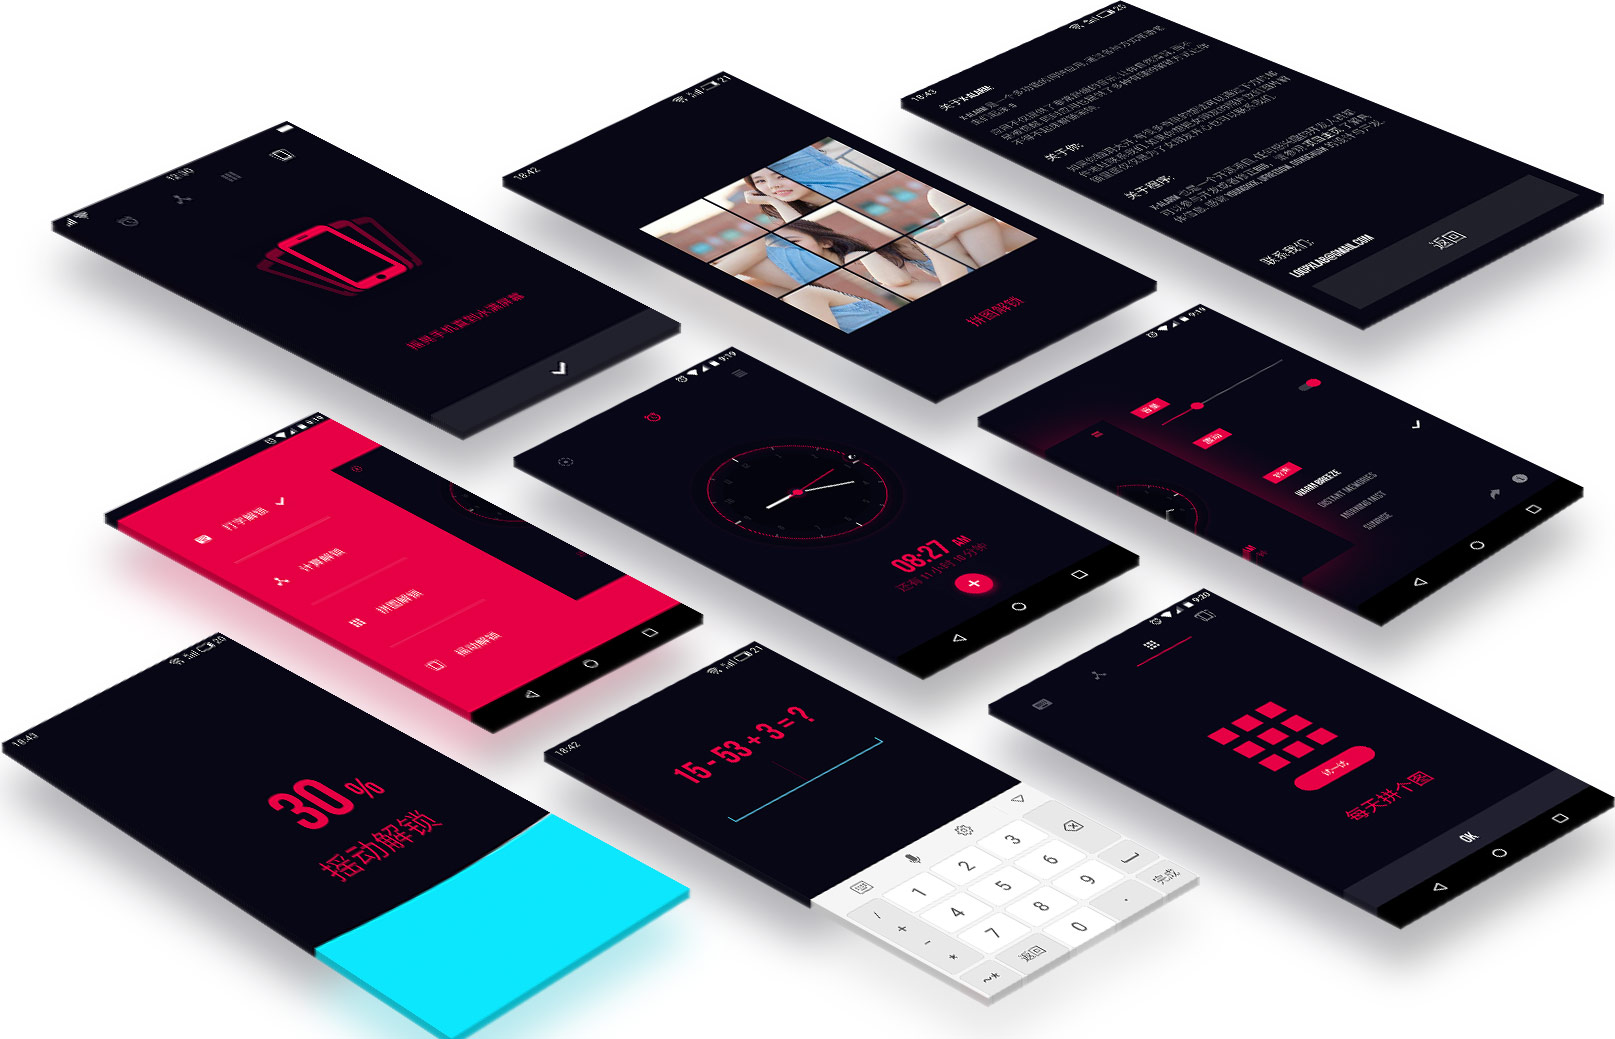
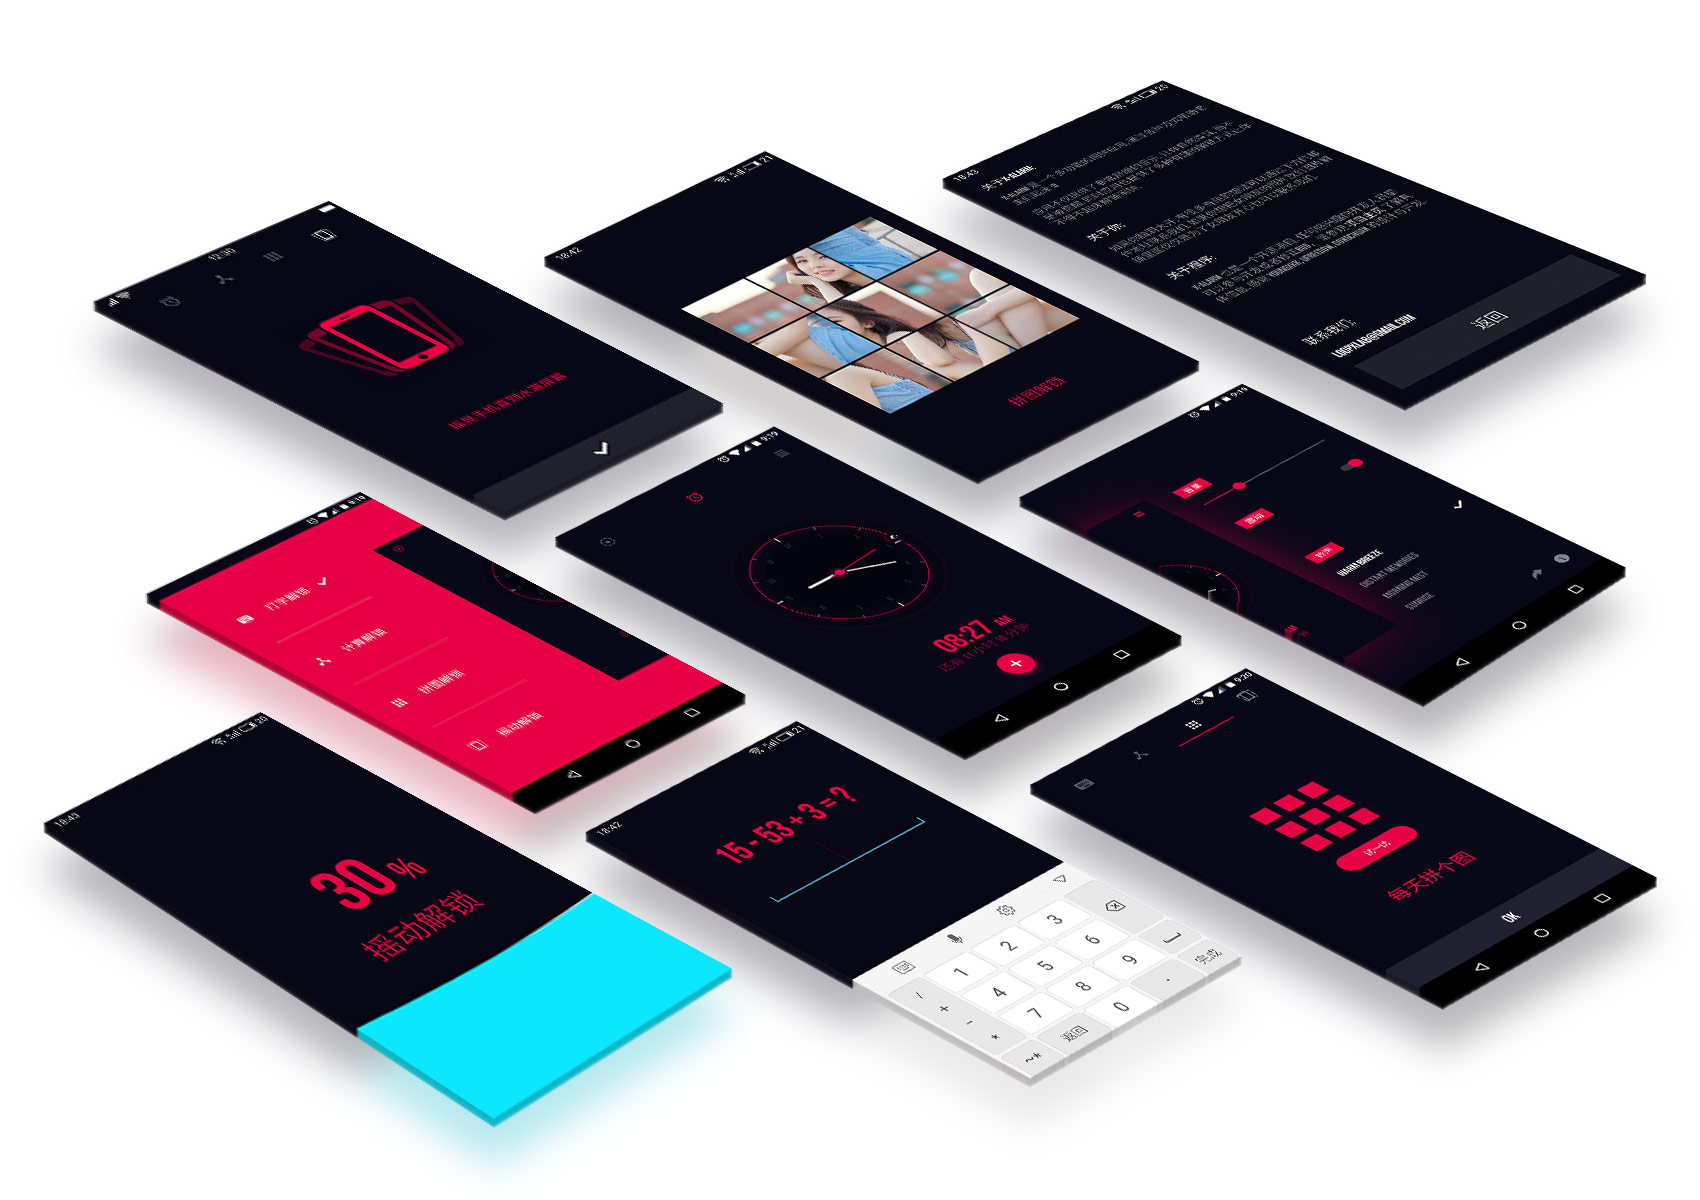
X Alarm awesome image

diff --git a/README.md b/README.md
@@ -9,8 +9,13 @@ offers a variety of interesting ways to unlock alarm so you have to get up to un
 
 
 <div align="center">
-<img src="https://github.com/Loop-X/X-Alarm/blob/master/images/x-alarm-awesome.jpg"  width="646"  height="415.6" />
+<img src="https://github.com/Loop-X/X-Alarm/blob/master/images/x-alarm-awesome.jpg"  width="680"  height="480" />
  </div>
+
+
+
+X Alarm 
+
 
 License ![License](https://img.shields.io/badge/license-AGPL%20v3.0-blue.svg)
 --------
